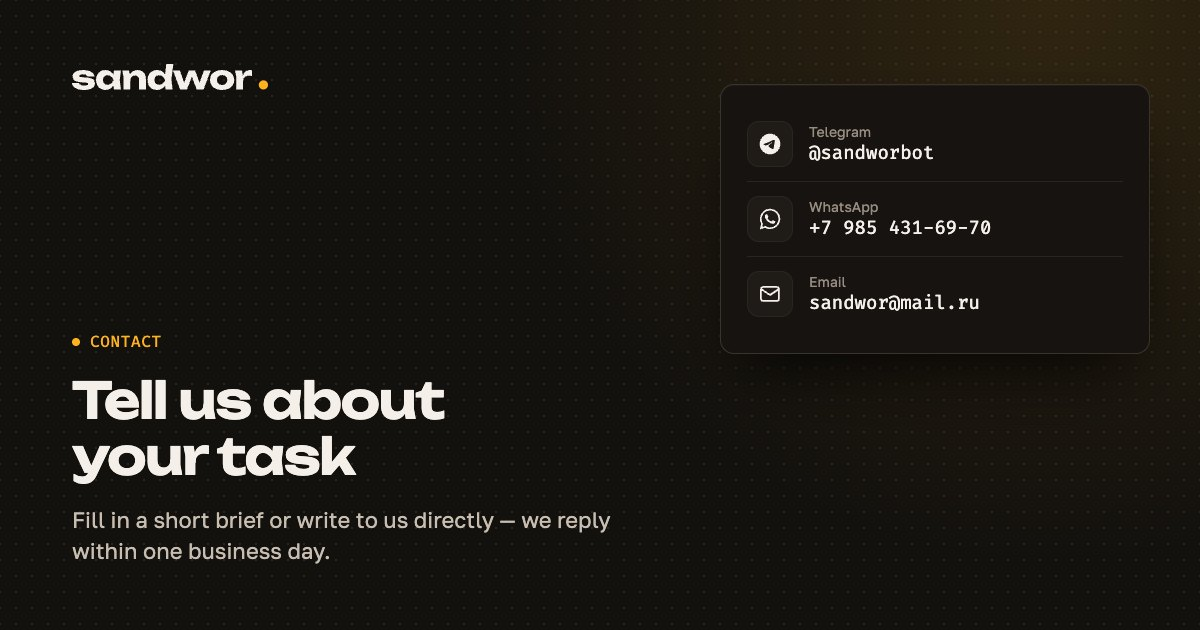
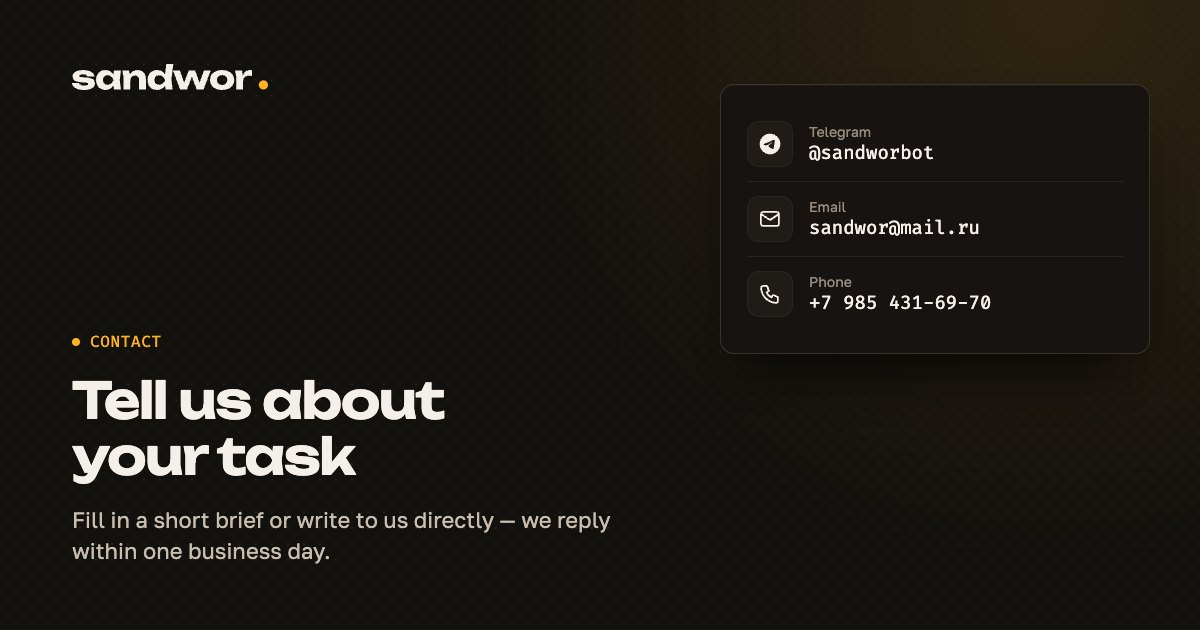
feat(v2): убрать WhatsApp с сайта, Telegram остаётся
- Контакты, подвал, разметка организации и OG-картинка контактов — без WhatsApp
- Политика: остался только Telegram, фраза про Meta убрана (разделы 1–3, 7, 8)
- Туториал РКН, шаблоны и итоги исследования — WhatsApp убран 21.10.2026

diff --git a/src/shared/config/contacts.ts b/src/shared/config/contacts.ts
@@ -1,5 +1,5 @@
 /** Идентификаторы каналов связи: совпадают с ключами в `contacts.*` переводов. */
-export type ContactChannelId = 'telegram' | 'whatsapp' | 'email' | 'phone';
+export type ContactChannelId = 'telegram' | 'email' | 'phone';
 
 export interface ContactChannel {
   id: ContactChannelId;
@@ -15,20 +15,17 @@ export interface ContactChannel {
 export const TELEGRAM_URL = 'https://t.me/sandworbot';
 export const CONTACT_EMAIL = 'sandwor@mail.ru';
 
-/** Каналы связи по порядку важности: шапка, мобильное меню, подвал, страница контактов. */
+/**
+ * Каналы связи по порядку важности: шапка, мобильное меню, подвал, страница контактов.
+ * WhatsApp убран 21.10.2026: заблокирован в России с февраля 2026 года, переписка в нём
+ * хранится за рубежом (см. docs/rkn-notification.md, шаг 3).
+ */
 export const CONTACT_CHANNELS: readonly ContactChannel[] = [
   {
     id: 'telegram',
     icon: 'brand-telegram',
     handle: '@sandworbot',
     href: TELEGRAM_URL,
-    isExternal: true,
-  },
-  {
-    id: 'whatsapp',
-    icon: 'brand-whatsapp',
-    handle: '+7 985 431-69-70',
-    href: 'https://wa.me/79854316970',
     isExternal: true,
   },
   { id: 'email', icon: 'mail', handle: CONTACT_EMAIL, href: `mailto:${CONTACT_EMAIL}` },

diff --git a/src/widgets/SiteFooter/SiteFooter.tsx b/src/widgets/SiteFooter/SiteFooter.tsx
@@ -12,7 +12,7 @@ import { useLocalePaths } from '@/shared/lib/i18n';
 import { SERVICE_NAV, SITE_NAV } from '../lib/siteNav';
 
 /** Соцсети под логотипом: только каналы, где нам можно написать. */
-const SOCIAL_IDS = ['telegram', 'whatsapp'] as const;
+const SOCIAL_IDS = ['telegram'] as const;
 
 /**
  * Подвал на Footer дизайн-системы: CTA-полоса с брифом, услуги, разделы,
